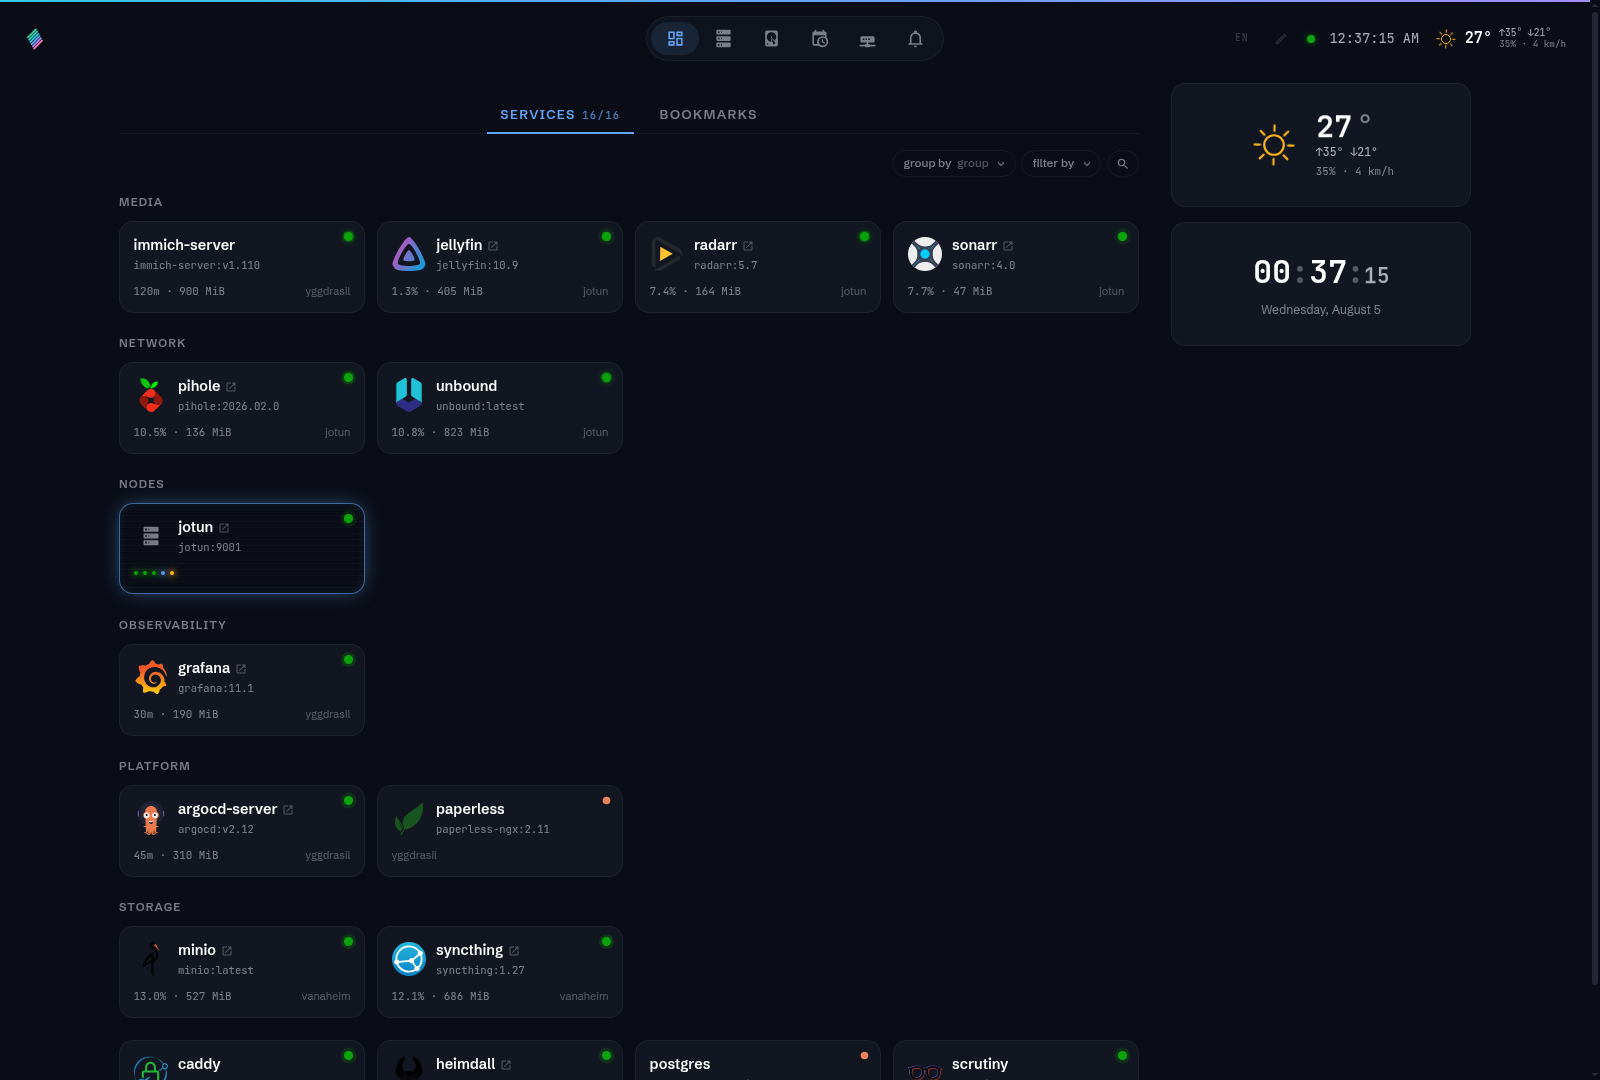
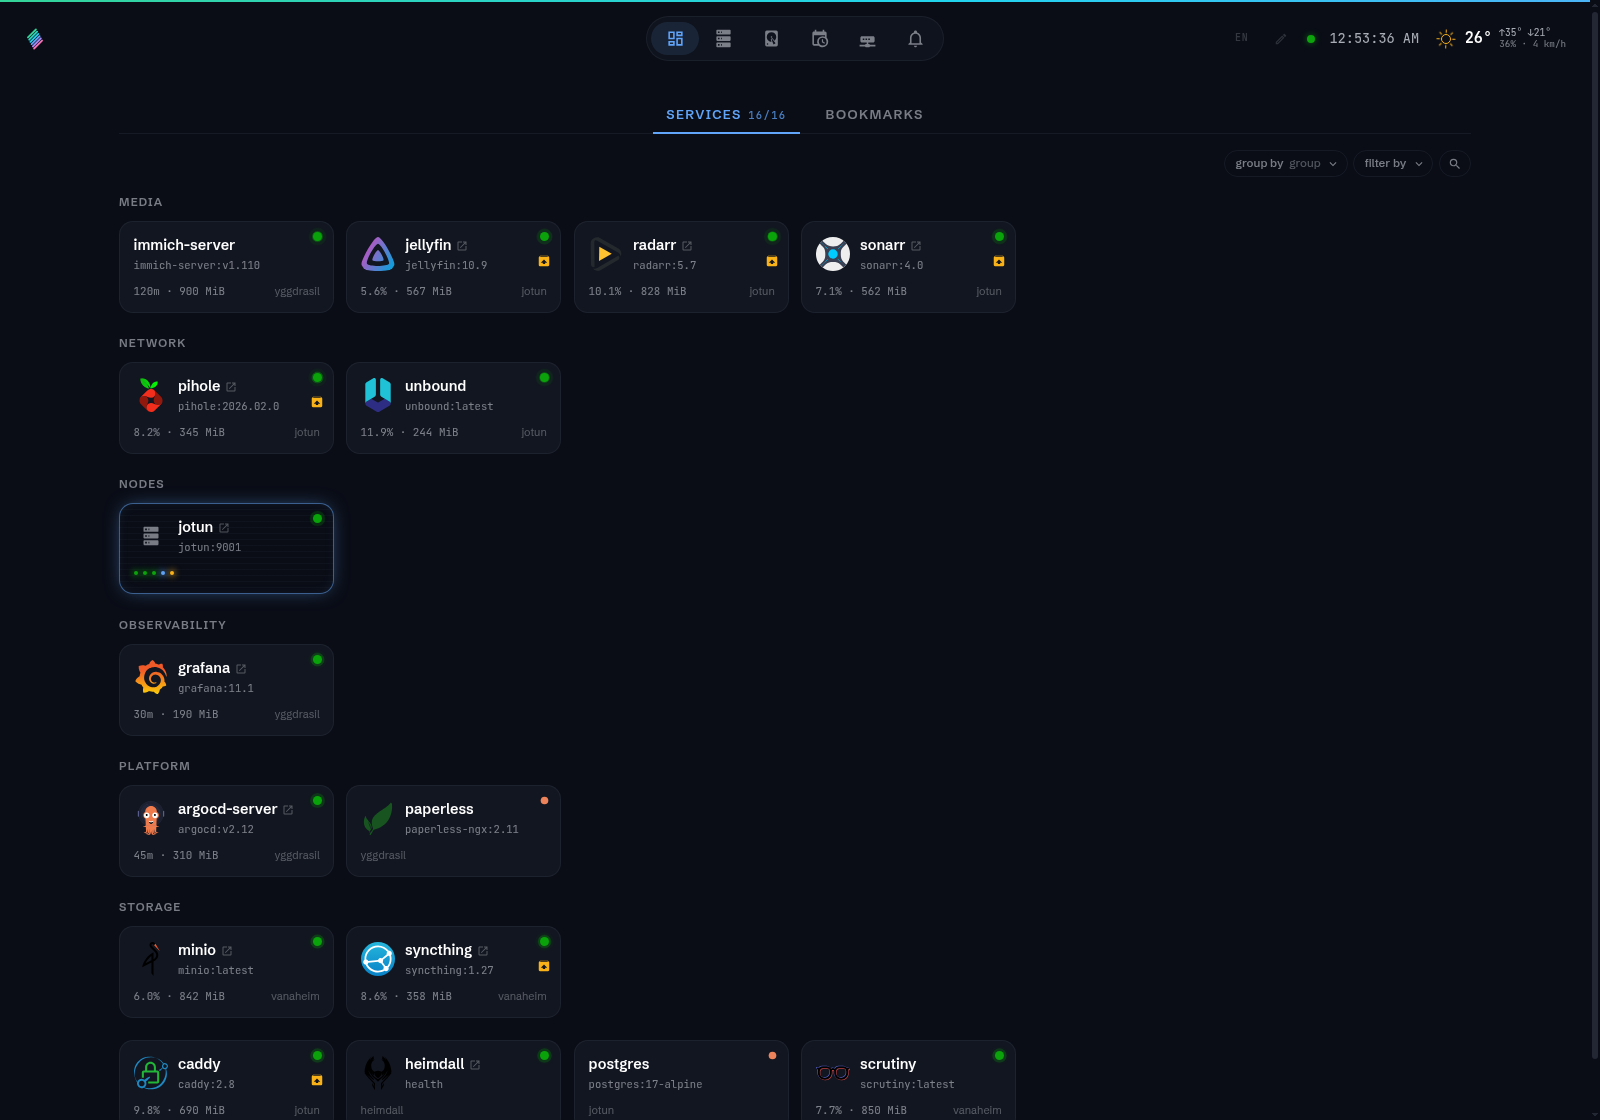
docs: widget-free dashboard shot, stacked full-width gallery
Claude-Session: https://claude.ai/code/session_018gJNYGasijQ3oR6xDCSbSJ

diff --git a/README.md b/README.md
@@ -48,18 +48,20 @@ nodes, and node-down detection is instant (socket close + application heartbeat)
 
 ## A look around
 
-Screenshots from a local dev stack seeded with synthetic data (`./dev.sh --seed`):
-
 <p align="center">
-  <img src="docs/screenshots/dashboard.png" alt="Dashboard — services grouped, node cards with live front-panel LEDs, ambient widgets" width="100%" />
+  <img src="docs/screenshots/dashboard.png" alt="Dashboard — services grouped, node cards with live front-panel LEDs" width="100%" />
 </p>
 <p align="center">
-  <img src="docs/screenshots/nodes.png" alt="Nodes — live gauges, endpoints, a down node" width="49%" />
-  <img src="docs/screenshots/gateway.png" alt="Gateway — routed services and exclusions with reasons" width="49%" />
+  <img src="docs/screenshots/nodes.png" alt="Nodes — live gauges, endpoints, a down node" width="100%" />
 </p>
 <p align="center">
-  <img src="docs/screenshots/node-detail.png" alt="Node detail — metrics, speedtest, filesystems, history" width="49%" />
-  <img src="docs/screenshots/storage.png" alt="Storage — SMART health across nodes" width="49%" />
+  <img src="docs/screenshots/gateway.png" alt="Gateway — routed services and exclusions with reasons" width="100%" />
+</p>
+<p align="center">
+  <img src="docs/screenshots/node-detail.png" alt="Node detail — metrics, speedtest, filesystems, history" width="100%" />
+</p>
+<p align="center">
+  <img src="docs/screenshots/storage.png" alt="Storage — SMART health across nodes" width="100%" />
 </p>
 
 ## Quick start
